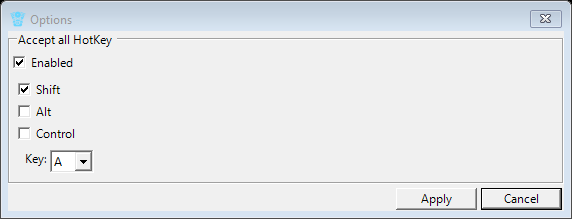
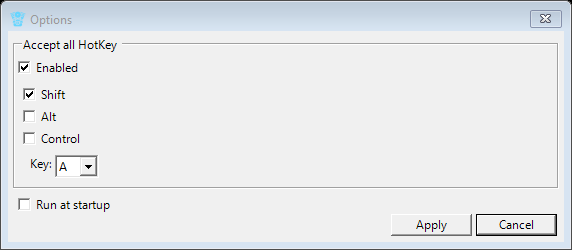
add startup

Changed region(s): [[0.0, 0.0, 1.0, 0.9589], [0.0, 0.9863, 1.0, 1.0]]

diff --git a/src/DiffEngineTray/Settings/OptionsForm.Designer.cs b/src/DiffEngineTray/Settings/OptionsForm.Designer.cs
@@ -25,6 +25,7 @@
             this.alt = new System.Windows.Forms.CheckBox();
             this.shift = new System.Windows.Forms.CheckBox();
             this.hotKeyEnabled = new System.Windows.Forms.CheckBox();
+            this.startupCheckBox = new System.Windows.Forms.CheckBox();
             this.bottomPanel.SuspendLayout();
             this.hotKey.SuspendLayout();
             this.keysSelectionPanel.SuspendLayout();
@@ -38,15 +39,15 @@
             this.bottomPanel.Controls.Add(this.save);
             this.bottomPanel.Dock = System.Windows.Forms.DockStyle.Bottom;
             this.bottomPanel.FlowDirection = System.Windows.Forms.FlowDirection.RightToLeft;
-            this.bottomPanel.Location = new System.Drawing.Point(0, 333);
+            this.bottomPanel.Location = new System.Drawing.Point(10, 388);
             this.bottomPanel.Name = "bottomPanel";
-            this.bottomPanel.Size = new System.Drawing.Size(1032, 52);
+            this.bottomPanel.Size = new System.Drawing.Size(1012, 52);
             this.bottomPanel.TabIndex = 1;
             // 
             // cancel
             // 
             this.cancel.DialogResult = System.Windows.Forms.DialogResult.Cancel;
-            this.cancel.Location = new System.Drawing.Point(879, 3);
+            this.cancel.Location = new System.Drawing.Point(859, 3);
             this.cancel.Name = "cancel";
             this.cancel.RightToLeft = System.Windows.Forms.RightToLeft.Yes;
             this.cancel.Size = new System.Drawing.Size(150, 46);
@@ -56,7 +57,7 @@
             // 
             // save
             // 
-            this.save.Location = new System.Drawing.Point(723, 3);
+            this.save.Location = new System.Drawing.Point(703, 3);
             this.save.Name = "save";
             this.save.Size = new System.Drawing.Size(150, 46);
             this.save.TabIndex = 1;
@@ -70,10 +71,10 @@
             this.hotKey.Controls.Add(this.keysSelectionPanel);
             this.hotKey.Controls.Add(this.hotKeyEnabled);
             this.hotKey.Dock = System.Windows.Forms.DockStyle.Top;
-            this.hotKey.Location = new System.Drawing.Point(0, 0);
+            this.hotKey.Location = new System.Drawing.Point(10, 10);
             this.hotKey.Name = "hotKey";
             this.hotKey.Padding = new System.Windows.Forms.Padding(10);
-            this.hotKey.Size = new System.Drawing.Size(1032, 277);
+            this.hotKey.Size = new System.Drawing.Size(1012, 277);
             this.hotKey.TabIndex = 2;
             this.hotKey.TabStop = false;
             this.hotKey.Text = "Accept all HotKey";
@@ -90,7 +91,7 @@
             this.keysSelectionPanel.Location = new System.Drawing.Point(10, 78);
             this.keysSelectionPanel.Name = "keysSelectionPanel";
             this.keysSelectionPanel.Padding = new System.Windows.Forms.Padding(10);
-            this.keysSelectionPanel.Size = new System.Drawing.Size(1012, 189);
+            this.keysSelectionPanel.Size = new System.Drawing.Size(992, 189);
             this.keysSelectionPanel.TabIndex = 1;
             // 
             // keyPanel
@@ -101,7 +102,7 @@
             this.keyPanel.Location = new System.Drawing.Point(10, 118);
             this.keyPanel.Name = "keyPanel";
             this.keyPanel.Padding = new System.Windows.Forms.Padding(10);
-            this.keyPanel.Size = new System.Drawing.Size(992, 61);
+            this.keyPanel.Size = new System.Drawing.Size(972, 61);
             this.keyPanel.TabIndex = 6;
             // 
             // keyCombo
@@ -130,7 +131,7 @@
             this.control.Dock = System.Windows.Forms.DockStyle.Top;
             this.control.Location = new System.Drawing.Point(10, 82);
             this.control.Name = "control";
-            this.control.Size = new System.Drawing.Size(992, 36);
+            this.control.Size = new System.Drawing.Size(972, 36);
             this.control.TabIndex = 4;
             this.control.Text = "Control";
             this.control.UseVisualStyleBackColor = true;
@@ -141,7 +142,7 @@
             this.alt.Dock = System.Windows.Forms.DockStyle.Top;
             this.alt.Location = new System.Drawing.Point(10, 46);
             this.alt.Name = "alt";
-            this.alt.Size = new System.Drawing.Size(992, 36);
+            this.alt.Size = new System.Drawing.Size(972, 36);
             this.alt.TabIndex = 1;
             this.alt.Text = "Alt";
             this.alt.UseVisualStyleBackColor = true;
@@ -152,7 +153,7 @@
             this.shift.Dock = System.Windows.Forms.DockStyle.Top;
             this.shift.Location = new System.Drawing.Point(10, 10);
             this.shift.Name = "shift";
-            this.shift.Size = new System.Drawing.Size(992, 36);
+            this.shift.Size = new System.Drawing.Size(972, 36);
             this.shift.TabIndex = 0;
             this.shift.Text = "Shift";
             this.shift.UseVisualStyleBackColor = true;
@@ -163,11 +164,23 @@
             this.hotKeyEnabled.Dock = System.Windows.Forms.DockStyle.Top;
             this.hotKeyEnabled.Location = new System.Drawing.Point(10, 42);
             this.hotKeyEnabled.Name = "hotKeyEnabled";
-            this.hotKeyEnabled.Size = new System.Drawing.Size(1012, 36);
+            this.hotKeyEnabled.Size = new System.Drawing.Size(992, 36);
             this.hotKeyEnabled.TabIndex = 0;
             this.hotKeyEnabled.Text = "Enabled";
             this.hotKeyEnabled.UseVisualStyleBackColor = true;
             this.hotKeyEnabled.CheckedChanged += new System.EventHandler(this.hotKeyEnabled_CheckedChanged);
+            // 
+            // startupCheckBox
+            // 
+            this.startupCheckBox.AutoSize = true;
+            this.startupCheckBox.Dock = System.Windows.Forms.DockStyle.Top;
+            this.startupCheckBox.Location = new System.Drawing.Point(10, 287);
+            this.startupCheckBox.Name = "startupCheckBox";
+            this.startupCheckBox.Padding = new System.Windows.Forms.Padding(10);
+            this.startupCheckBox.Size = new System.Drawing.Size(1012, 56);
+            this.startupCheckBox.TabIndex = 3;
+            this.startupCheckBox.Text = "Run at startup";
+            this.startupCheckBox.UseVisualStyleBackColor = true;
             // 
             // OptionsForm
             // 
@@ -175,12 +188,14 @@
             this.AutoScaleDimensions = new System.Drawing.SizeF(13F, 32F);
             this.AutoScaleMode = System.Windows.Forms.AutoScaleMode.Font;
             this.CancelButton = this.cancel;
-            this.ClientSize = new System.Drawing.Size(1032, 385);
+            this.ClientSize = new System.Drawing.Size(1032, 450);
+            this.Controls.Add(this.startupCheckBox);
             this.Controls.Add(this.hotKey);
             this.Controls.Add(this.bottomPanel);
             this.MaximizeBox = false;
             this.MinimizeBox = false;
             this.Name = "OptionsForm";
+            this.Padding = new System.Windows.Forms.Padding(10);
             this.ShowInTaskbar = false;
             this.SizeGripStyle = System.Windows.Forms.SizeGripStyle.Hide;
             this.Text = "Options";
@@ -207,4 +222,5 @@
     private System.Windows.Forms.CheckBox hotKeyEnabled;
     private System.Windows.Forms.Panel keyPanel;
     private System.Windows.Forms.Label keyLabel;
+    private System.Windows.Forms.CheckBox startupCheckBox;
 }

diff --git a/src/DiffEngineTray/HotKey/KeyRegister.cs b/src/DiffEngineTray/HotKey/KeyRegister.cs
@@ -48,39 +48,21 @@ public class KeyRegister :
 
     public bool TryAddBinding(int id, KeyModifiers modifiers, Keys keys, Action action)
     {
-        ClearBinding(id);
+        var unregisterHotKey = UnregisterHotKey(handle, id);
 
-        if (RegisterHotKey(handle, id, modifiers, keys))
-        {
-            bindings.Add(id, action);
-            return true;
-        }
-
-        // If the operation failed, try to unregister the
-        // HotKey if the thread has registered it before.
-
-        // IntPtr.Zero means the HotKey registered by the thread.
-        UnregisterHotKey(IntPtr.Zero, id);
-
-        // Try to register the HotKey again.
-        // If the operation still failed, it means that the HotKey
-        // was already used in another thread or process.
         if (!RegisterHotKey(handle, id, modifiers, keys))
         {
             return false;
         }
 
-        bindings.Add(id, action);
+        bindings[id] = action;
         return true;
     }
 
     public void ClearBinding(int id)
     {
-        if (bindings.TryGetValue(id, out _))
-        {
-            UnregisterHotKey(IntPtr.Zero, id);
-            bindings.Remove(id);
-        }
+        bindings.Remove(id);
+        UnregisterHotKey(handle, id);
     }
 
     [PermissionSetAttribute(SecurityAction.LinkDemand, Name = "FullTrust")]

diff --git a/src/DiffEngineTray/Startup.cs b/src/DiffEngineTray/Startup.cs
@@ -1,0 +1,33 @@
+using System;
+using System.IO;
+using Microsoft.Win32;
+
+public class Startup
+{
+
+    public static void Add()
+    {
+        var profile = Environment.GetFolderPath(Environment.SpecialFolder.UserProfile);
+        var exePath = Path.Combine(profile, ".dotnet", "tools", "DiffEngineTray.exe");
+        using var key = GetRunKey();
+        key.SetValue("DiffEngineTray", exePath);
+    }
+
+    public static void Remove()
+    {
+        using var key = GetRunKey();
+        key.DeleteValue("DiffEngineTray");
+    }
+
+    public static bool Exists()
+    {
+        using var key = GetRunKey();
+        return key.GetValue("DiffEngineTray") != null;
+    }
+
+    static RegistryKey GetRunKey()
+    {
+        return Registry.CurrentUser
+            .OpenSubKey(@"SOFTWARE\Microsoft\Windows\CurrentVersion\Run", true)!;
+    }
+}

diff --git a/src/DiffEngineTray/Settings/OptionsForm.cs b/src/DiffEngineTray/Settings/OptionsForm.cs
@@ -32,6 +32,8 @@ public partial class OptionsForm :
             control.Checked = key.Control;
             keyCombo.SelectedItem = key.Key;
         }
+
+        startupCheckBox.Checked = settings.RunAtStartup;
     }
 
     static IEnumerable<string> GetAlphabet()
@@ -49,7 +51,10 @@ public partial class OptionsForm :
 
     async void save_Click(object sender, EventArgs e)
     {
-        var newSettings = new Settings();
+        var newSettings = new Settings
+        {
+            RunAtStartup = startupCheckBox.Checked
+        };
         if (hotKeyEnabled.Checked)
         {
             newSettings.AcceptAllHotKey = new HotKey

diff --git a/src/DiffEngineTray/Settings/OptionsFormLauncher.cs b/src/DiffEngineTray/Settings/OptionsFormLauncher.cs
@@ -28,6 +28,14 @@ static class OptionsFormLauncher
                     }
                 }
 
+                if (newSettings.RunAtStartup)
+                {
+                    Startup.Add();
+                }
+                else
+                {
+                    Startup.Remove();
+                }
                 await SettingsHelper.Write(newSettings);
                 return new List<string>();
             });

diff --git a/src/DiffEngineTray/Extensions.cs b/src/DiffEngineTray/Extensions.cs
@@ -22,11 +22,6 @@ static class Extensions
         }
     }
 
-    public static void AddRange(this ToolStripMenuItem target, params ToolStripItem[] items)
-    {
-        target.DropDownItems.AddRange(items);
-    }
-
     public static void AddRange(this ToolStripSplitButton target, params ToolStripItem[] items)
     {
         target.DropDownItems.AddRange(items);

diff --git a/src/DiffEngineTray/Settings/Settings.cs b/src/DiffEngineTray/Settings/Settings.cs
@@ -1,5 +1,5 @@
 public class Settings
 {
     public HotKey? AcceptAllHotKey { get; set; }
-
+    public bool RunAtStartup { get; set; }
 }

diff --git a/docs/mdsource/tray.source.md b/docs/mdsource/tray.source.md
@@ -49,6 +49,21 @@ Clicking "file1" or "file2" will delete file1 or file2 respectively. The drop do
 Clear will clear all currently tracked items.
 
 
+### Options
+
+<img src="..\src\DiffEngineTray.Tests\OptionsFormTests.Default.verified.png">
+
+
+#### Accept all HotKey
+
+Registers a system wide HotKey to accept all pending changes.
+
+
+#### Run at startup
+
+Runs DiffEngineTray at system startup.
+
+
 ## Currently supported in
 
  * [Verify](https://github.com/VerifyTests/Verify) v6.10.4 and above

diff --git a/docs/tray.md b/docs/tray.md
@@ -56,6 +56,17 @@ Clicking "file1" or "file2" will delete file1 or file2 respectively. The drop do
 Clear will clear all currently tracked items.
 
 
+### Options
+
+<img src="..\src\DiffEngineTray.Tests\OptionsFormTests.Default.verified.png">
+
+
+####
+
+
+####
+
+
 ## Currently supported in
 
  * [Verify](https://github.com/VerifyTests/Verify) v6.10.4 and above
